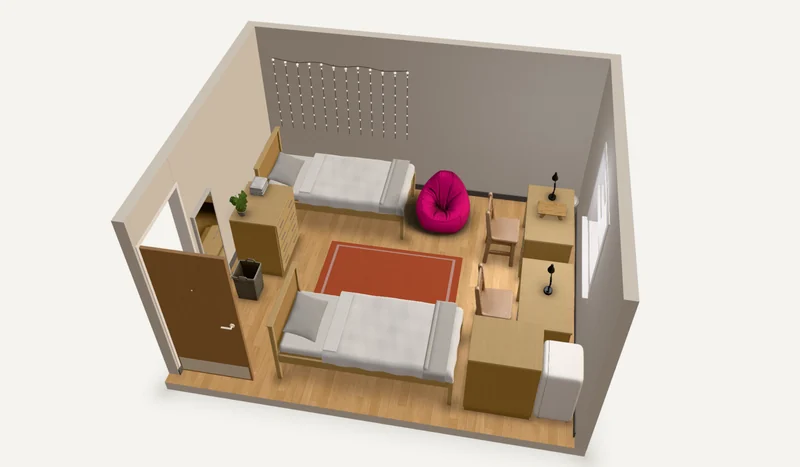
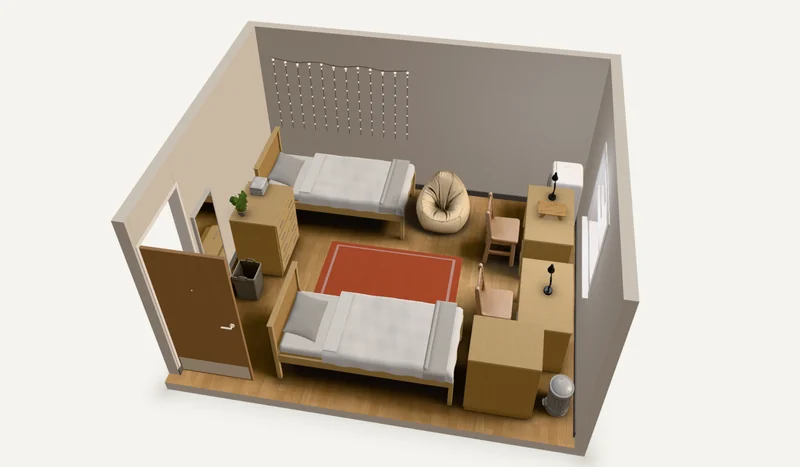
Hero demo: oatmeal bean bag, mini fridge where its door can open
The bean bag is a warm oatmeal beige that sits with the oak and bedding instead of hot pink. The mini fridge moves
from the front corner (its door faced the dresser) to the end of the desk row against the back wall, door toward
the open aisle; the trash can takes the corner.

Claude-Session: https://claude.ai/code/session_01S6YCHmBKmE3hFcSRhUhYcX

Changed region(s): [[0.2812, 0.3597, 0.75, 0.9593], [0.6875, 0.3298, 0.75, 0.4497], [0.6875, 0.5396, 0.7188, 0.5696]]

diff --git a/components/home/Hero.module.css b/components/home/Hero.module.css
@@ -241,7 +241,7 @@
 .ly img { object-fit: fill; }
 .lyRoom { inset: 0; }
 .lyRug { left: 38.500%; top: 51.357%; width: 19.417%; height: 18.929%; animation: sprRug 12s linear infinite; }
-.lyOcc { left: 33.375%; top: 49.643%; width: 25.625%; height: 23.786%; }
+.lyOcc { left: 33.417%; top: 49.714%; width: 25.583%; height: 23.714%; }
 .lyBean { left: 48.208%; top: 36.214%; width: 12.625%; height: 16.143%; animation: sprBean 12s linear infinite; }
 .dims { position: absolute; inset: 0; width: 100%; height: 100%; overflow: visible; pointer-events: none; }
 .dims line { stroke: var(--ds-blue); stroke-linecap: round; vector-effect: non-scaling-stroke; }
